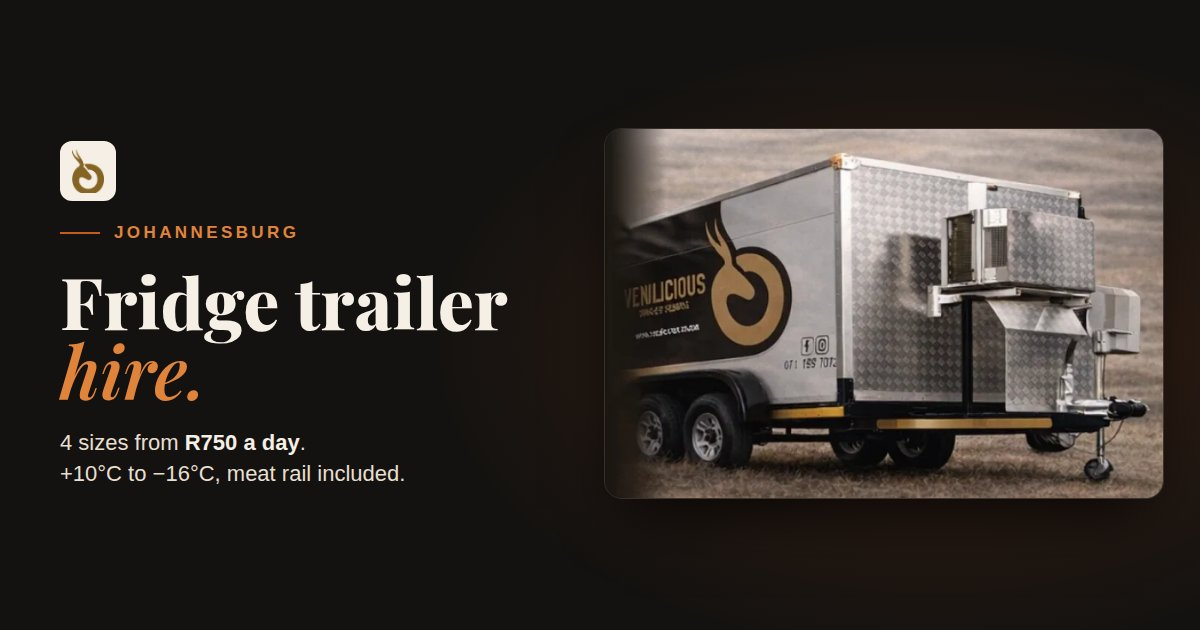
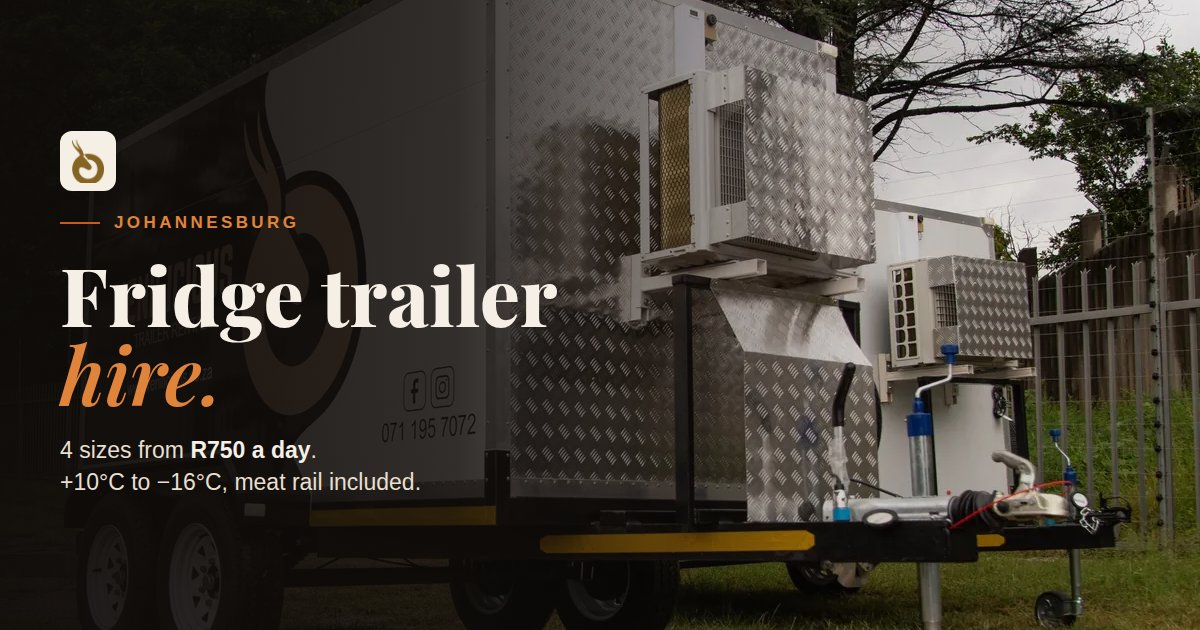
add: real trailer photos on trailer page, homepage promo + og card
Claude-Session: https://claude.ai/code/session_01HpN8Ge4LjgmujdxnLGhhnL

diff --git a/fridge-trailer-hire/index.html b/fridge-trailer-hire/index.html
@@ -8,6 +8,7 @@
 <link rel="canonical" href="https://venilicious-preview.vercel.app/fridge-trailer-hire/">
 <meta name="robots" content="max-image-preview:large">
 <meta name="theme-color" content="#141210">
+<link rel="preload" as="image" href="/images/venilicious-fridge-trailer-tandem-1200.webp" imagesrcset="/images/venilicious-fridge-trailer-tandem-600.webp 600w, /images/venilicious-fridge-trailer-tandem-1200.webp 1200w" imagesizes="(min-width:760px) 560px, 100vw" fetchpriority="high">
 <meta property="og:type" content="website">
 <meta property="og:site_name" content="Venilicious">
 <meta property="og:locale" content="en_ZA">
@@ -17,7 +18,7 @@
 <meta property="og:image" content="https://venilicious-preview.vercel.app/images/og/og-trailer.jpg">
 <meta property="og:image:width" content="1200">
 <meta property="og:image:height" content="630">
-<meta property="og:image:alt" content="Venilicious fridge trailer hire, Johannesburg">
+<meta property="og:image:alt" content="Venilicious fridge trailer for hire in Johannesburg">
 <meta name="twitter:card" content="summary_large_image">
 <meta name="twitter:title" content="Fridge Trailer Hire in Johannesburg | Venilicious">
 <meta name="twitter:description" content="Four fridge and freezer trailers from R750 a day. Book on WhatsApp.">
@@ -50,7 +51,7 @@
       "serviceType": "Refrigerated trailer hire",
       "description": "Fridge and freezer trailer hire in Johannesburg: four towable trailers from R750 a day, +10°C to −16°C with a meat rail, for hunting trips, farms, weddings and functions.",
       "url": "https://venilicious-preview.vercel.app/fridge-trailer-hire/",
-      "image": "https://venilicious-preview.vercel.app/images/og/og-trailer.jpg",
+      "image": ["https://venilicious-preview.vercel.app/images/venilicious-fridge-trailer-tandem-1200.webp", "https://venilicious-preview.vercel.app/images/venilicious-fridge-trailer-fleet-1200.webp"],
       "provider": { "@id": "https://venilicious-preview.vercel.app/#organization" },
       "areaServed": [
         { "@type": "City", "name": "Johannesburg" },
@@ -297,6 +298,8 @@ a{color:inherit;text-decoration:none}
 .cta-row{display:flex;flex-direction:column;gap:14px;}
 .cta-row .btn{width:100%;}
 .trailer-art{width:100%;max-width:560px;height:auto;margin:6px auto 0;display:block;}
+.herophoto{margin-top:10px;border-radius:18px;overflow:hidden;border:1px solid var(--line);box-shadow:0 30px 60px -24px rgba(0,0,0,.85);}
+.herophoto img{width:100%;height:auto;display:block;}
 @media(min-width:760px){
   .thero .grid{grid-template-columns:1.05fr .95fr;align-items:center;gap:40px;padding-top:56px;padding-bottom:72px;min-height:560px;}
   .thero h1{font-size:clamp(52px,6vw,84px);}
@@ -551,50 +554,7 @@ footer .verse .ref{display:block;font-style:normal;font-family:'Archivo',sans-se
         <a class="textlink" href="#book">Check dates &amp; rates <svg viewBox="0 0 24 24" fill="none" stroke="currentColor" stroke-width="2.2" stroke-linecap="round" stroke-linejoin="round" aria-hidden="true"><path d="M5 12h14M13 6l6 6-6 6"/></svg></a>
       </div>
     </div>
-    <svg class="trailer-art" viewBox="0 0 520 290" role="img" aria-labelledby="ta1T">
-      <title id="ta1T">Illustration of a towable Venilicious fridge trailer</title>
-      <defs>
-        <radialGradient id="ta1g" cx="55%" cy="55%" r="55%"><stop offset="0" stop-color="#ff7a2a" stop-opacity=".2"/><stop offset="1" stop-color="#ff7a2a" stop-opacity="0"/></radialGradient>
-        <linearGradient id="ta1b" x1="0" y1="0" x2="0" y2="1"><stop offset="0" stop-color="#2e2216"/><stop offset="1" stop-color="#1b1611"/></linearGradient>
-      </defs>
-      <ellipse cx="292" cy="150" rx="214" ry="136" fill="url(#ta1g)"/>
-      <line x1="10" y1="266" x2="510" y2="266" stroke="rgba(245,239,230,.16)" stroke-width="1.5" stroke-dasharray="2 9" stroke-linecap="round"/>
-      <ellipse cx="300" cy="266" rx="200" ry="7" fill="rgba(0,0,0,.5)"/>
-      <!-- wheel (behind chassis) -->
-      <circle cx="316" cy="238" r="28" fill="#0e0c0a" stroke="#f5efe6" stroke-width="4"/>
-      <circle cx="316" cy="238" r="12" fill="none" stroke="#e0843b" stroke-width="3"/>
-      <circle cx="316" cy="238" r="3" fill="#f5efe6"/>
-      <!-- drawbar, hitch, jockey wheel -->
-      <path d="M152 216 L62 230 L34 230" stroke="#f5efe6" stroke-width="5" stroke-linecap="round" stroke-linejoin="round" fill="none"/>
-      <rect x="16" y="223" width="28" height="14" rx="7" fill="#c85a1e"/>
-      <line x1="88" y1="226" x2="88" y2="249" stroke="#f5efe6" stroke-width="4" stroke-linecap="round"/>
-      <circle cx="88" cy="256" r="9" fill="#141210" stroke="#f5efe6" stroke-width="3"/>
-      <!-- chassis -->
-      <rect x="150" y="206" width="322" height="11" rx="3" fill="#e8dfd0"/>
-      <!-- body -->
-      <rect x="150" y="40" width="322" height="168" rx="10" fill="url(#ta1b)" stroke="#f5efe6" stroke-width="3"/>
-      <line x1="164" y1="56" x2="458" y2="56" stroke="rgba(245,239,230,.16)" stroke-width="1.5"/>
-      <!-- fridge unit on the front wall -->
-      <rect x="118" y="66" width="36" height="88" rx="6" fill="#141210" stroke="#f5efe6" stroke-width="3"/>
-      <g stroke="rgba(245,239,230,.55)" stroke-width="2" stroke-linecap="round"><line x1="127" y1="82" x2="145" y2="82"/><line x1="127" y1="92" x2="145" y2="92"/><line x1="127" y1="102" x2="145" y2="102"/><line x1="127" y1="112" x2="145" y2="112"/><line x1="127" y1="122" x2="145" y2="122"/></g>
-      <circle cx="136" cy="140" r="5" fill="#e0843b"/>
-      <!-- side door -->
-      <rect x="378" y="64" width="78" height="130" rx="4" fill="none" stroke="rgba(245,239,230,.45)" stroke-width="2"/>
-      <rect x="441" y="114" width="6" height="30" rx="3" fill="#e0843b"/>
-      <!-- snowflake -->
-      <g transform="translate(262 104)" stroke="#f5efe6" stroke-width="3.2" stroke-linecap="round" stroke-linejoin="round" fill="none">
-        <g><line x1="0" y1="0" x2="0" y2="-30"/><path d="M-7 -22 L0 -15 L7 -22"/></g>
-        <g transform="rotate(60)"><line x1="0" y1="0" x2="0" y2="-30"/><path d="M-7 -22 L0 -15 L7 -22"/></g>
-        <g transform="rotate(120)"><line x1="0" y1="0" x2="0" y2="-30"/><path d="M-7 -22 L0 -15 L7 -22"/></g>
-        <g transform="rotate(180)"><line x1="0" y1="0" x2="0" y2="-30"/><path d="M-7 -22 L0 -15 L7 -22"/></g>
-        <g transform="rotate(240)"><line x1="0" y1="0" x2="0" y2="-30"/><path d="M-7 -22 L0 -15 L7 -22"/></g>
-        <g transform="rotate(300)"><line x1="0" y1="0" x2="0" y2="-30"/><path d="M-7 -22 L0 -15 L7 -22"/></g>
-      </g>
-      <text x="262" y="166" text-anchor="middle" font-family="'Playfair Display',Georgia,serif" font-weight="800" font-size="19" letter-spacing="2.5" fill="#f5efe6">VENILICIOUS</text>
-      <text x="262" y="186" text-anchor="middle" font-family="Archivo,sans-serif" font-weight="700" font-size="10" letter-spacing="4" fill="#e0843b">FRIDGE TRAILER HIRE</text>
-      <!-- tail light -->
-      <rect x="466" y="172" width="9" height="20" rx="2" fill="#c85a1e"/>
-    </svg>
+    <figure class="herophoto"><img src="/images/venilicious-fridge-trailer-tandem-1200.webp" srcset="/images/venilicious-fridge-trailer-tandem-600.webp 600w, /images/venilicious-fridge-trailer-tandem-1200.webp 1200w" sizes="(min-width:760px) 560px, 100vw" width="1200" height="800" fetchpriority="high" alt="Venilicious tandem axle fridge trailer with checker plate body and front mounted refrigeration unit"></figure>
 
   </div>
 </section>
@@ -628,7 +588,7 @@ footer .verse .ref{display:block;font-style:normal;font-family:'Archivo',sans-se
     <div class="shead">
       <p class="label seclabel">Who it's for</p>
       <h2 class="h2">One trailer. <em>Plenty</em> of uses.</h2>
-      <p class="lede">Hunters keep it busy in season. In summer it earns its keep at weddings, year end functions and big family gatherings.</p>
+      <p class="lede">Hunters keep the trailers busy in season. The rest of the year they're at festivals, weddings, functions, catering jobs, florists, camping trips and sports events.</p>
     </div>
     <div class="uses">
       <article class="use">
@@ -722,8 +682,8 @@ footer .verse .ref{display:block;font-style:normal;font-family:'Archivo',sans-se
       </ul>
     </div>
     <figure class="specphoto">
-      <img src="/images/venilicious-fridge-trailer.webp" width="651" height="430" loading="lazy" decoding="async" alt="Venilicious branded fridge trailer with a checker plate body and refrigeration unit on the front">
-      <figcaption>The Venilicious fridge trailer</figcaption>
+      <img src="/images/venilicious-fridge-trailer-fleet-1200.webp" srcset="/images/venilicious-fridge-trailer-fleet-600.webp 600w, /images/venilicious-fridge-trailer-fleet-1200.webp 1200w" sizes="(min-width:900px) 560px, 100vw" width="1200" height="800" loading="lazy" decoding="async" alt="Row of Venilicious fridge trailers for hire, listing festivals, events, functions, catering, weddings, florists, camping, hunting and sports events">
+      <figcaption>The Venilicious trailer fleet</figcaption>
     </figure>
   </div>
 </section>

diff --git a/index.html b/index.html
@@ -349,7 +349,8 @@ footer .verse .ref{display:block;font-style:normal;font-family:'Archivo',sans-se
 .hirecard .checks{display:flex;flex-wrap:wrap;gap:8px;margin-bottom:22px;}
 .hirecta{display:flex;flex-direction:column;gap:16px;}
 .hirecta .btn{width:100%;padding:0 30px;}
-.hireart svg{width:100%;height:auto;max-width:520px;margin:0 auto;display:block;}
+.hireart img{width:100%;height:auto;display:block;border-radius:14px;border:1px solid var(--line);}
+.hirecard{padding-bottom:20px;}
 @media(min-width:760px){
   .hirewrap{max-width:1240px;margin:0 auto;padding:0 40px;}
   .hirecard{grid-template-columns:1.05fr .95fr;align-items:center;gap:36px;padding:56px 52px;}
@@ -552,7 +553,7 @@ footer .verse .ref{display:block;font-style:normal;font-family:'Archivo',sans-se
   <div class="hirewrap">
     <div class="hirecard rv">
       <div>
-        <p class="label eyebrow">New &middot; Fridge trailer hire</p>
+        <p class="label eyebrow">Fridge trailer hire &middot; From R750 a day</p>
         <h2 id="hire-h">Need it cold? <em>Hire our</em> fridge trailer.</h2>
         <p class="sub">A towable fridge or freezer on wheels for the hunting farm, the wedding venue or the big family braai. Four sizes from R750 a day, now booking for summer functions and the coming hunting season.</p>
         <div class="checks">
@@ -566,53 +567,7 @@ footer .verse .ref{display:block;font-style:normal;font-family:'Archivo',sans-se
           <a class="textlink" href="https://wa.me/27711957072" data-wa="Hi Venilicious, I'd like to hire the fridge trailer. My dates are: " data-wa-fallback="/fridge-trailer-hire/#book">WhatsApp to book <svg viewBox="0 0 24 24" fill="none" stroke="currentColor" stroke-width="2.2" stroke-linecap="round" stroke-linejoin="round" aria-hidden="true"><path d="M5 12h14M13 6l6 6-6 6"/></svg></a>
         </div>
       </div>
-      <div class="hireart">
-    <svg class="trailer-art" viewBox="0 0 520 290" role="img" aria-labelledby="hpT">
-      <title id="hpT">Illustration of a towable Venilicious fridge trailer</title>
-      <defs>
-        <radialGradient id="hpg" cx="55%" cy="55%" r="55%"><stop offset="0" stop-color="#ff7a2a" stop-opacity=".2"/><stop offset="1" stop-color="#ff7a2a" stop-opacity="0"/></radialGradient>
-        <linearGradient id="hpb" x1="0" y1="0" x2="0" y2="1"><stop offset="0" stop-color="#2e2216"/><stop offset="1" stop-color="#1b1611"/></linearGradient>
-      </defs>
-      <ellipse cx="292" cy="150" rx="214" ry="136" fill="url(#hpg)"/>
-      <line x1="10" y1="266" x2="510" y2="266" stroke="rgba(245,239,230,.16)" stroke-width="1.5" stroke-dasharray="2 9" stroke-linecap="round"/>
-      <ellipse cx="300" cy="266" rx="200" ry="7" fill="rgba(0,0,0,.5)"/>
-      <!-- wheel (behind chassis) -->
-      <circle cx="316" cy="238" r="28" fill="#0e0c0a" stroke="#f5efe6" stroke-width="4"/>
-      <circle cx="316" cy="238" r="12" fill="none" stroke="#e0843b" stroke-width="3"/>
-      <circle cx="316" cy="238" r="3" fill="#f5efe6"/>
-      <!-- drawbar, hitch, jockey wheel -->
-      <path d="M152 216 L62 230 L34 230" stroke="#f5efe6" stroke-width="5" stroke-linecap="round" stroke-linejoin="round" fill="none"/>
-      <rect x="16" y="223" width="28" height="14" rx="7" fill="#c85a1e"/>
-      <line x1="88" y1="226" x2="88" y2="249" stroke="#f5efe6" stroke-width="4" stroke-linecap="round"/>
-      <circle cx="88" cy="256" r="9" fill="#141210" stroke="#f5efe6" stroke-width="3"/>
-      <!-- chassis -->
-      <rect x="150" y="206" width="322" height="11" rx="3" fill="#e8dfd0"/>
-      <!-- body -->
-      <rect x="150" y="40" width="322" height="168" rx="10" fill="url(#hpb)" stroke="#f5efe6" stroke-width="3"/>
-      <line x1="164" y1="56" x2="458" y2="56" stroke="rgba(245,239,230,.16)" stroke-width="1.5"/>
-      <!-- fridge unit on the front wall -->
-      <rect x="118" y="66" width="36" height="88" rx="6" fill="#141210" stroke="#f5efe6" stroke-width="3"/>
-      <g stroke="rgba(245,239,230,.55)" stroke-width="2" stroke-linecap="round"><line x1="127" y1="82" x2="145" y2="82"/><line x1="127" y1="92" x2="145" y2="92"/><line x1="127" y1="102" x2="145" y2="102"/><line x1="127" y1="112" x2="145" y2="112"/><line x1="127" y1="122" x2="145" y2="122"/></g>
-      <circle cx="136" cy="140" r="5" fill="#e0843b"/>
-      <!-- side door -->
-      <rect x="378" y="64" width="78" height="130" rx="4" fill="none" stroke="rgba(245,239,230,.45)" stroke-width="2"/>
-      <rect x="441" y="114" width="6" height="30" rx="3" fill="#e0843b"/>
-      <!-- snowflake -->
-      <g transform="translate(262 104)" stroke="#f5efe6" stroke-width="3.2" stroke-linecap="round" stroke-linejoin="round" fill="none">
-        <g><line x1="0" y1="0" x2="0" y2="-30"/><path d="M-7 -22 L0 -15 L7 -22"/></g>
-        <g transform="rotate(60)"><line x1="0" y1="0" x2="0" y2="-30"/><path d="M-7 -22 L0 -15 L7 -22"/></g>
-        <g transform="rotate(120)"><line x1="0" y1="0" x2="0" y2="-30"/><path d="M-7 -22 L0 -15 L7 -22"/></g>
-        <g transform="rotate(180)"><line x1="0" y1="0" x2="0" y2="-30"/><path d="M-7 -22 L0 -15 L7 -22"/></g>
-        <g transform="rotate(240)"><line x1="0" y1="0" x2="0" y2="-30"/><path d="M-7 -22 L0 -15 L7 -22"/></g>
-        <g transform="rotate(300)"><line x1="0" y1="0" x2="0" y2="-30"/><path d="M-7 -22 L0 -15 L7 -22"/></g>
-      </g>
-      <text x="262" y="166" text-anchor="middle" font-family="'Playfair Display',Georgia,serif" font-weight="800" font-size="19" letter-spacing="2.5" fill="#f5efe6">VENILICIOUS</text>
-      <text x="262" y="186" text-anchor="middle" font-family="Archivo,sans-serif" font-weight="700" font-size="10" letter-spacing="4" fill="#e0843b">FRIDGE TRAILER HIRE</text>
-      <!-- tail light -->
-      <rect x="466" y="172" width="9" height="20" rx="2" fill="#c85a1e"/>
-    </svg>
-
-      </div>
+      <div class="hireart"><img src="/images/venilicious-fridge-trailer-fleet-1200.webp" srcset="/images/venilicious-fridge-trailer-fleet-600.webp 600w, /images/venilicious-fridge-trailer-fleet-1200.webp 1200w" sizes="(min-width:760px) 520px, 90vw" width="1200" height="800" loading="lazy" decoding="async" alt="Row of Venilicious fridge trailers for hire, listing festivals, events, functions, catering, weddings, florists, camping, hunting and sports events"></div>
     </div>
   </div>
 </section>

diff --git a/PROJECT_CONTEXT.md b/PROJECT_CONTEXT.md
@@ -183,7 +183,7 @@ Photos are AI-generated (Runway). Source PNGs (1200×896, ~2 MB each) live in `i
 | `family-braai` | PDP gallery #3, FBT Springbok |
 | `butcher-hands` | Build-your-box background |
 
-**Trailer photo:** `images/venilicious-fridge-trailer.webp` (651×430) is cropped from the HuntEx 2026 flyer and cleaned up (buffalo horn painted out, left edge faded). It's low-res, so replace it with real photos of each trailer when possible. The hero still uses the SVG illustration. `og/og-trailer.jpg` uses the photo.
+**Trailer photos (real, from Richard):** sources `images/originals/trailer1.jpg` (tandem axle trailer, low angle) and `trailer2.jpg` (single axle trailer + fleet line-up, side lists festivals, events, functions, catering, weddings, florists, camping, hunting, sports events). Web versions: `venilicious-fridge-trailer-tandem-{600,1200}.webp` (trailer page hero, OG card) and `venilicious-fridge-trailer-fleet-{600,1200}.webp` (trailer page "Every trailer" section, homepage promo). The old SVG trailer illustration is no longer used.
 
 ---
 
@@ -213,7 +213,7 @@ Photos are AI-generated (Runway). Source PNGs (1200×896, ~2 MB each) live in `i
 | Formspree form ID | `assets/site.js` → `formspreeId` | Optional. Empty = "Send by email" opens the visitor's email app addressed to bookings@ |
 | Trailer sizes, loads, daily rates, temp range, rail/shelving, power | `fridge-trailer-hire/index.html` `#rates`, `#trailer`, FAQ, Service JSON-LD offers | **Done** (from current site) |
 | Weekly / multi-day rates, deposit, delivery options, pickup area, distance limits | "How it works" step 2, `.ratenote`, FAQ (deliver / deposit / outside Gauteng), booking sidebar | Owner to confirm. Edit text **and** the FAQPage JSON-LD |
-| Proper photos of each trailer | `images/venilicious-fridge-trailer.webp` (from flyer, low-res), hero SVG | Owner to supply |
+| Photos per trailer size (Short Boy, Tall Boy, 1 Tonner, Double Tonner) | Fleet cards in `#rates` | Nice to have: 2 real photos are live |
 | CIPC reg number | Footer `.fbase` | Owner to supply |
 | Real reviews | Removed. Add back only real, attributable reviews | Invented reviews are misleading and a legal risk under SA consumer protection law |
 | Meat claims | "hormone-free", "higher in omega-3 than beef", "dry-aged", "within 24 hours", nutrition figures | Owner to confirm |
